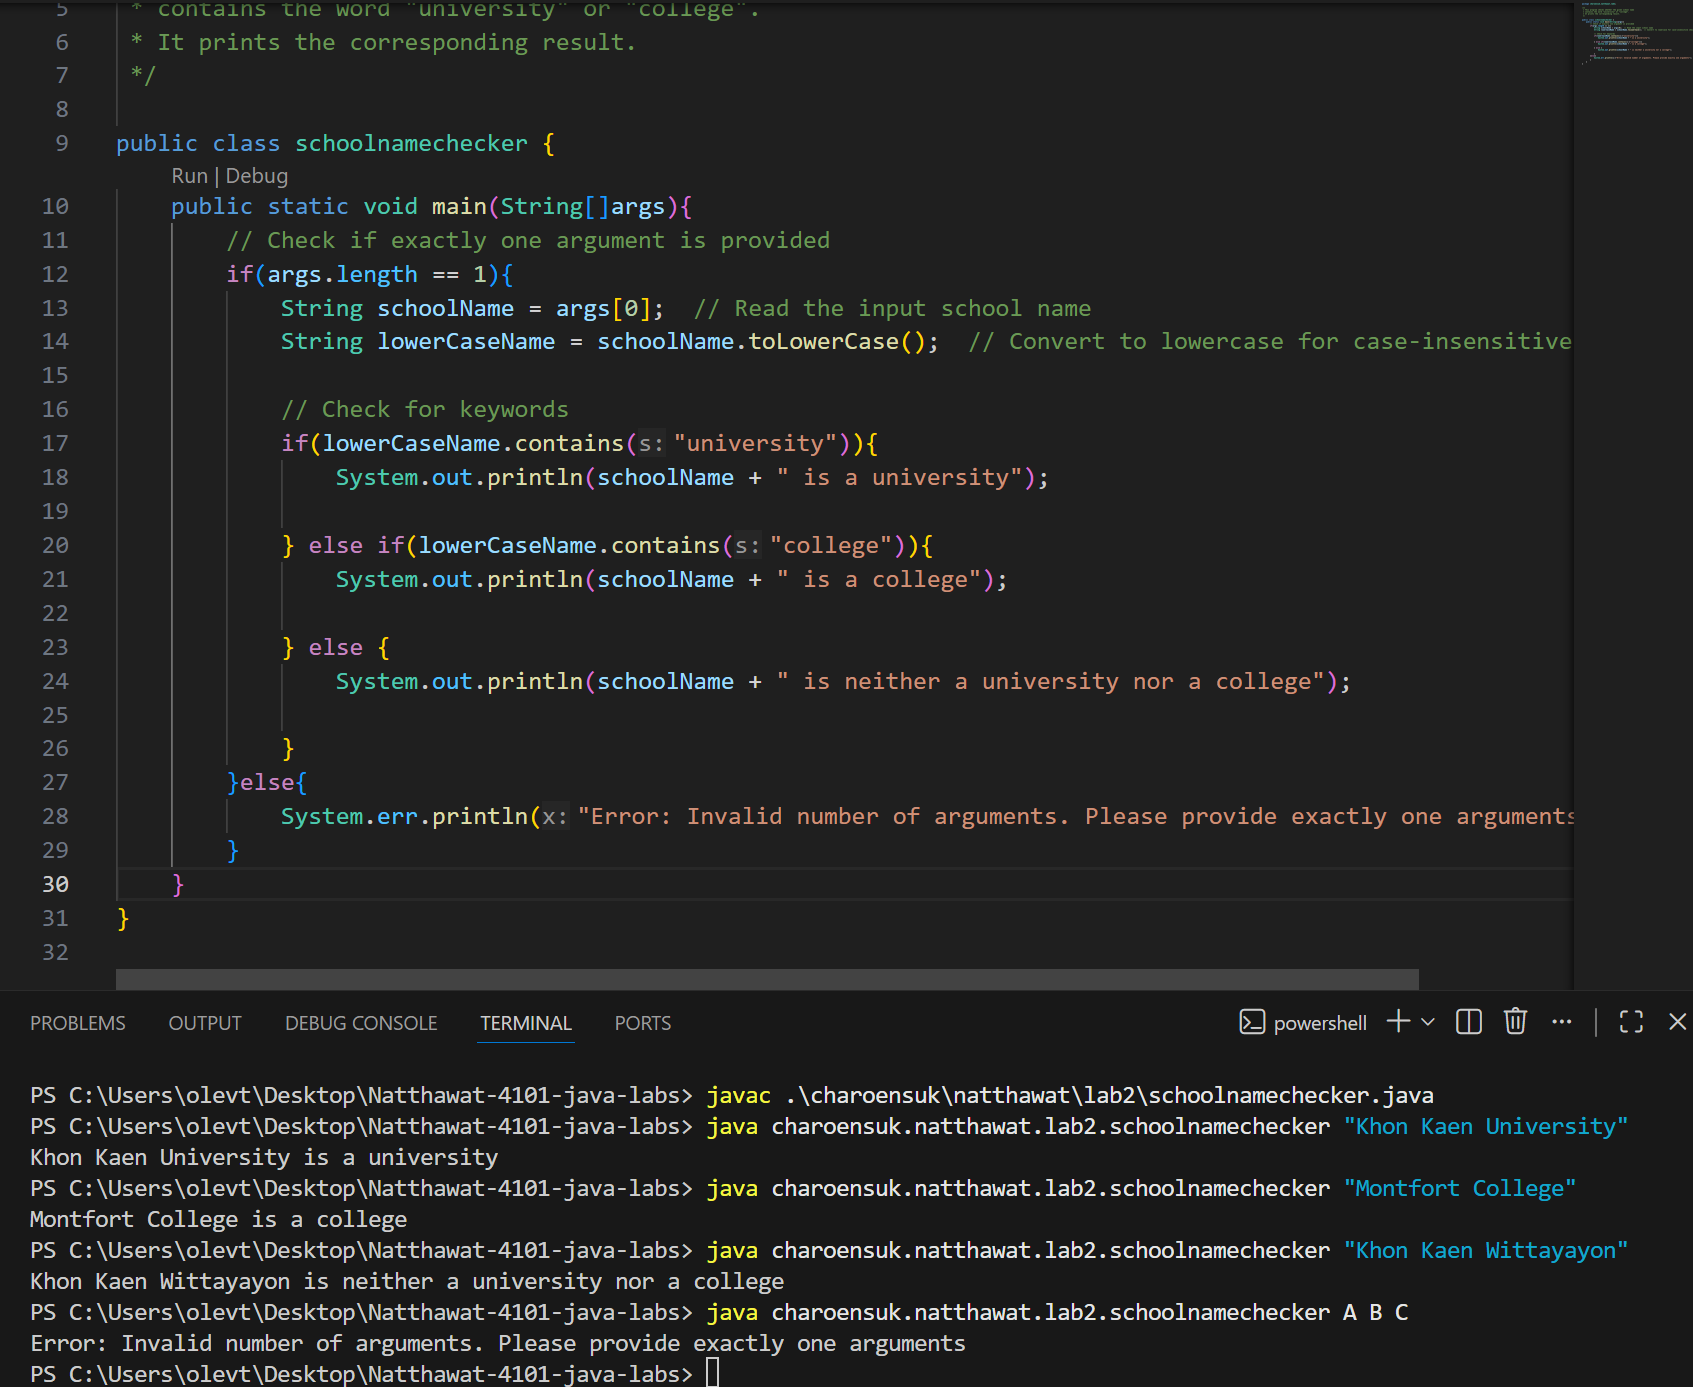
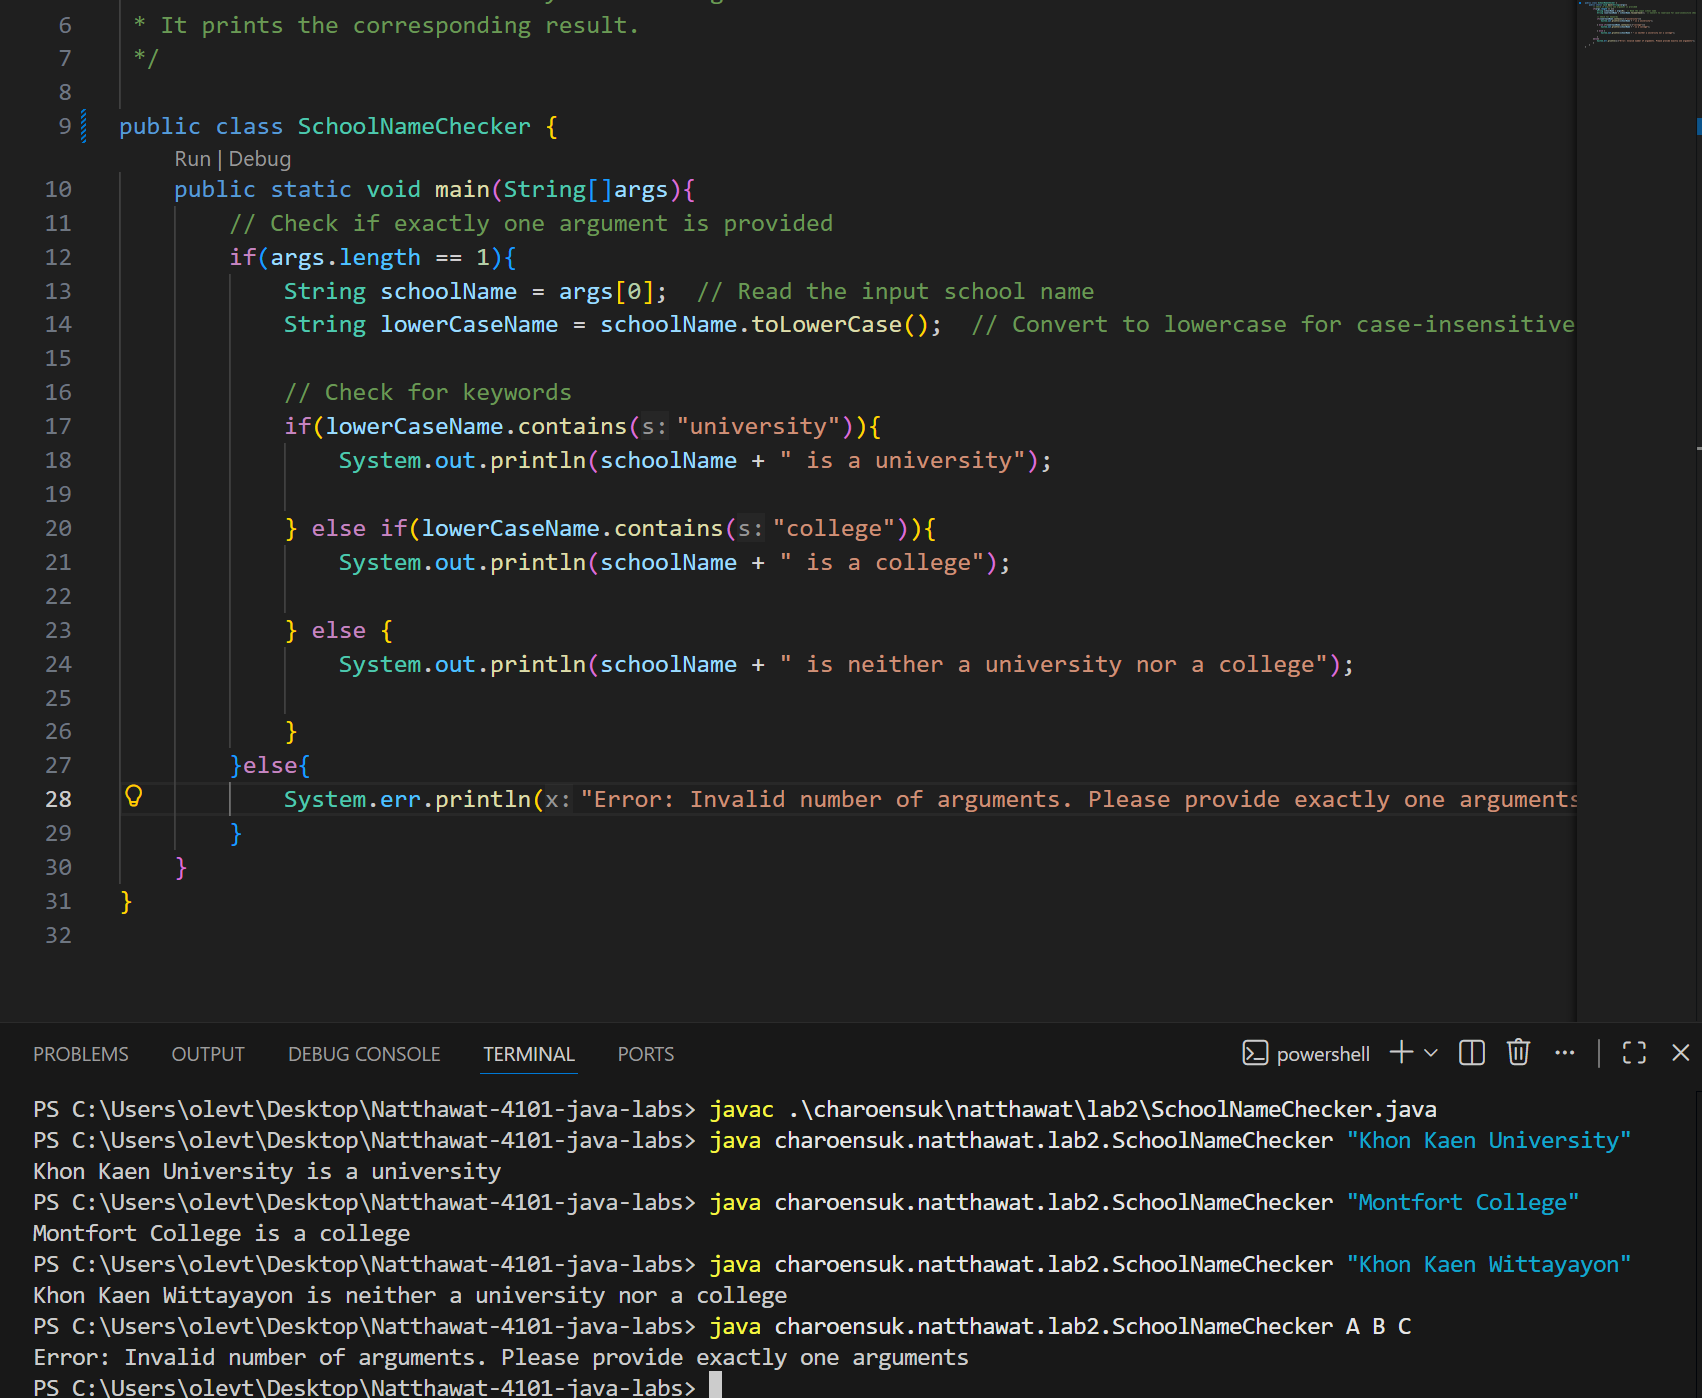
n

diff --git a/charoensuk/natthawat/lab2/moneyprocessor.java b/charoensuk/natthawat/lab2/moneyprocessor.java
@@ -5,7 +5,7 @@ package charoensuk.natthawat.lab2;
  * the number of each type of coin provided as arguments.
  */
 
-public class moneyprocessor {
+public class MoneyProcessor {
     public static void main(String[]args){
         // Check if exactly six arguments are provided
         if(args.length == 6){

diff --git a/charoensuk/natthawat/lab2/schoolnamechecker.java b/charoensuk/natthawat/lab2/schoolnamechecker.java
@@ -6,7 +6,7 @@ package charoensuk.natthawat.lab2;
  * It prints the corresponding result.
  */
 
-public class schoolnamechecker {
+public class SchoolNameChecker {
     public static void main(String[]args){
         // Check if exactly one argument is provided
         if(args.length == 1){
